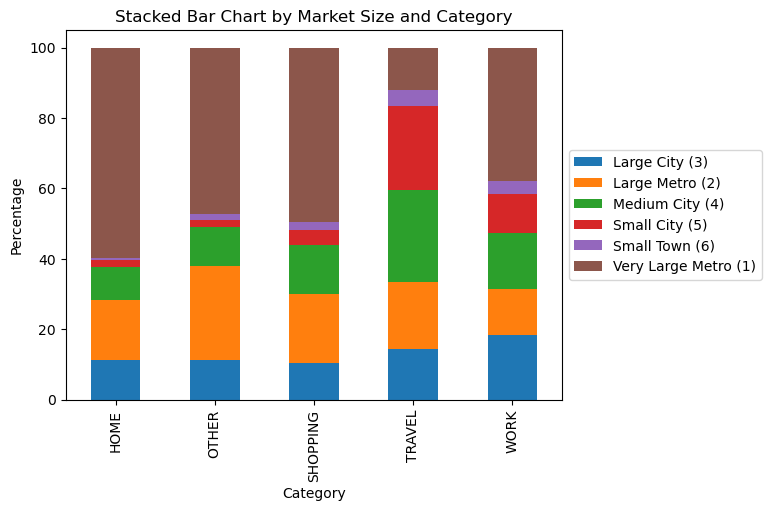
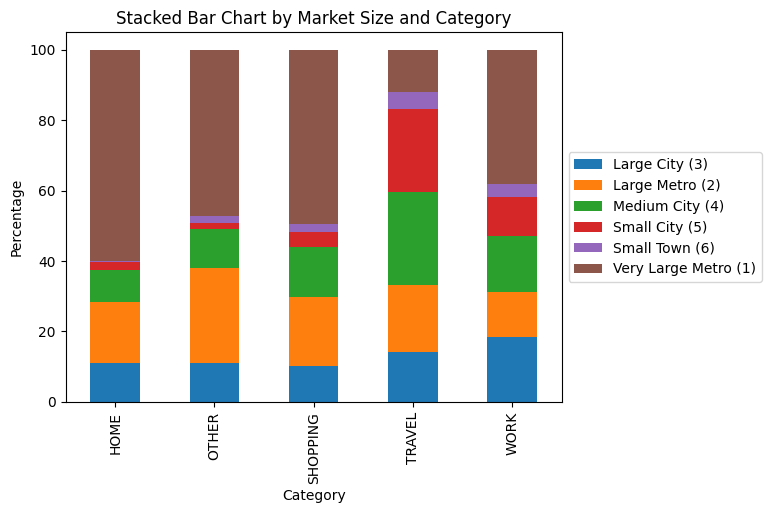
Add scatter plot and make plot sizes consistent

diff --git a/src/create_eda_figure.py b/src/create_eda_figure.py
@@ -30,6 +30,7 @@ def create_bar_chart(df, col_name, xlab, title, out_dir):
         plt.savefig("img/" + out_dir + "_bar_plot.png", bbox_inches="tight")
 
 def create_stack_bar_chart(df, col_name, title, out_dir):
+    plt.figure(figsize=(9,7))
     df = df[[col_name, 'category']]
     grouped = df.groupby(['category', col_name]).value_counts()
     pivoted = grouped.unstack(col_name).fillna(0)
@@ -54,6 +55,7 @@ def create_stack_bar_chart(df, col_name, title, out_dir):
         plt.savefig("img/" + out_dir + "stacked_bar_plot.png", bbox_inches="tight")
 
 def create_boxplot(df, col_name, ylabel, title, out_dir):
+    plt.figure(figsize=(9,7))
     fig = df.boxplot(
         column=[col_name], 
         by="category",
@@ -67,6 +69,22 @@ def create_boxplot(df, col_name, ylabel, title, out_dir):
     except:
         os.mkdir("img/")
         fig.savefig("img/" + out_dir + "_boxplot.png", bbox_inches="tight")
+
+def create_scatterplot(df, x_col, y_col, groupby_col, xlab, ylab, title, out_dir):
+    plt.figure(figsize=(9,7))
+    fig, ax = plt.subplots()
+    groups = df.groupby(groupby_col)
+    for name, group in groups:
+        ax.scatter(group[x_col], group[y_col], s=10, alpha=0.5, label=name)
+    ax.legend()
+    ax.set_xlabel(xlab)
+    ax.set_ylabel(ylab)
+    ax.set_title(title)
+    try:
+        fig.savefig("img/" + out_dir + "_scatterplot.png", bbox_inches="tight")
+    except:
+        os.mkdir("img/")
+        fig.savefig("img/" + out_dir + "_scatterplot.png", bbox_inches="tight")
 
 def main():
     SMOOTHIE = "Smoothie King/smoothie_king_"
@@ -109,6 +127,11 @@ def main():
     create_boxplot(
         smoothie_df, "gdp_10mi", "GDP within 10 mile radius", "Boxplot of GDP within 10 mile radius by Category",
         "gdp_10mi_boxplot"
+    )
+    create_scatterplot(
+        subway_us_df, "genz_p_1mi", "spend_dinner_1mi", "store_density", "Gen Z Population Percentage in 1 mile radius",
+        "Amount spent on dinner in 1 mile radius", "Scatter plot of Percent Gen Z Population vs Amount Spent on Dinner",
+        "genz_p_vs_dinner"
     )
 
 if __name__ == "__main__":
